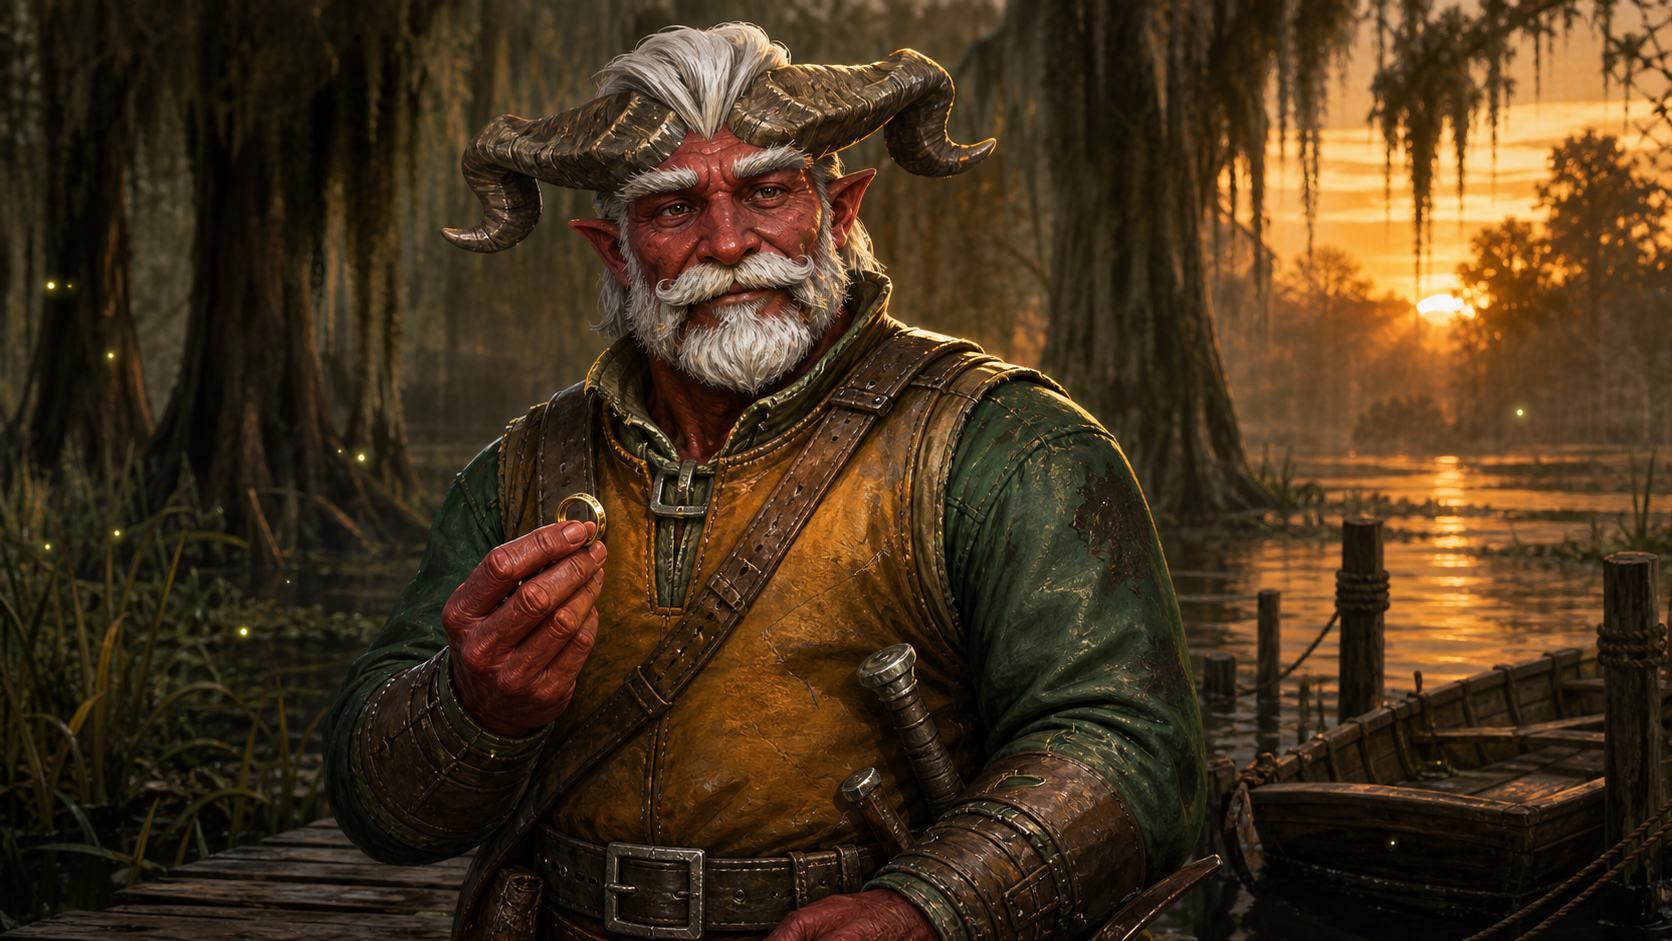
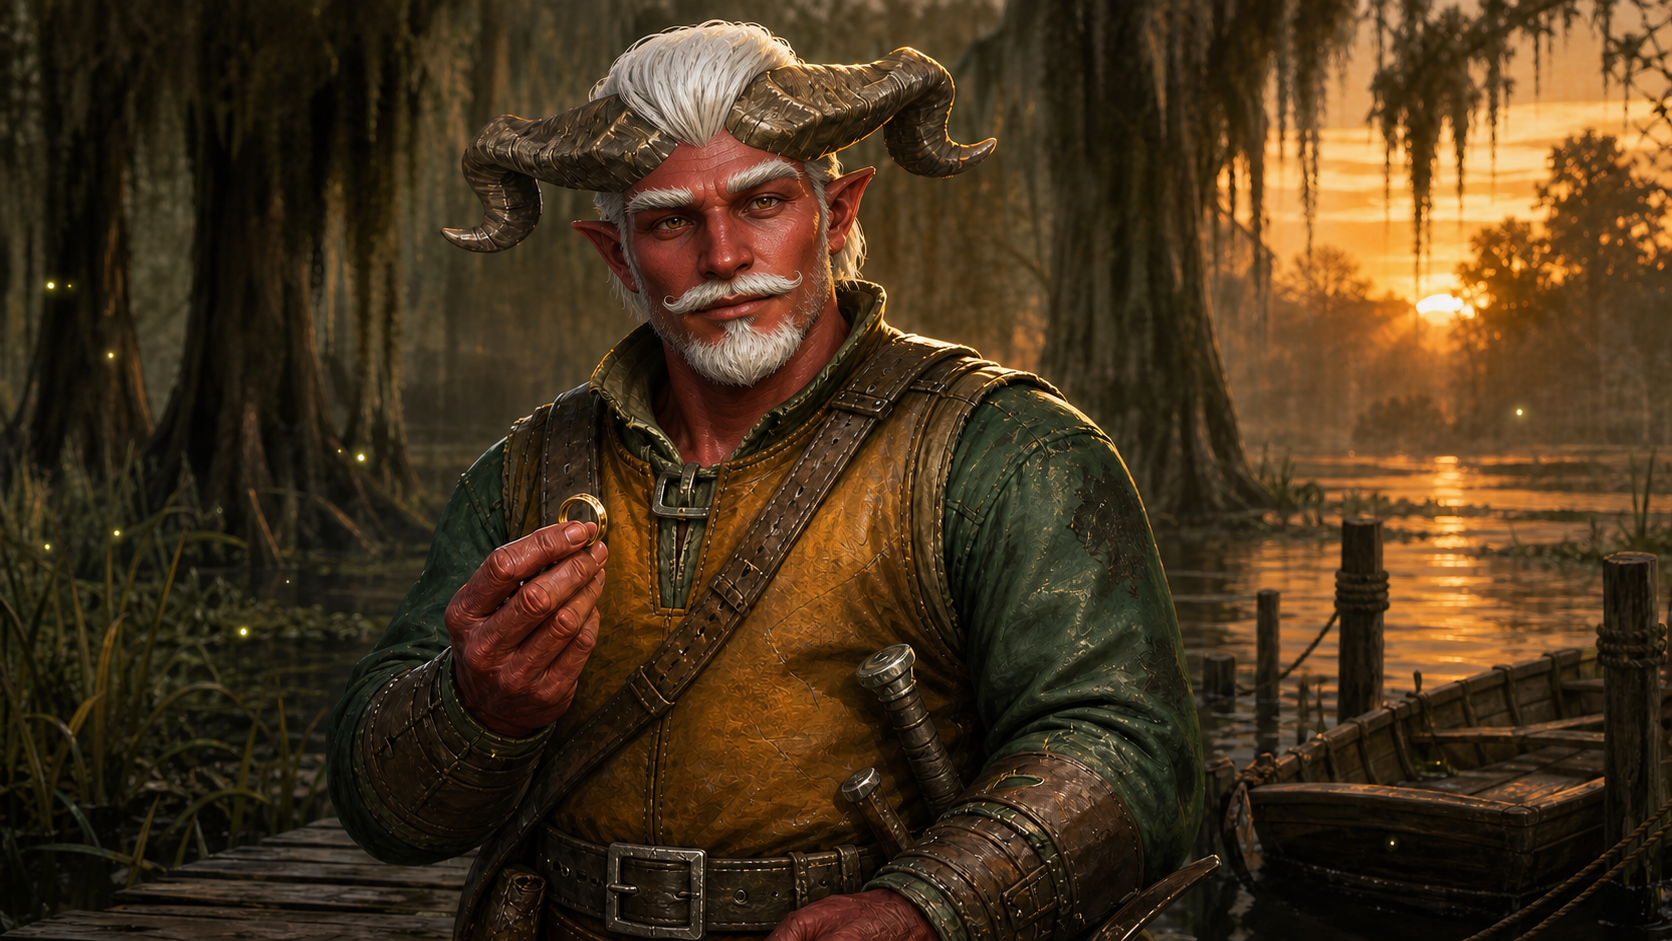
Fix campaign labels and update Hap portrait

diff --git a/apps/web/components/blocks/CharacterIntroduction.tsx b/apps/web/components/blocks/CharacterIntroduction.tsx
@@ -11,6 +11,7 @@ interface CharacterIntroductionProps {
   video?: string;
   audio: string;
   transcript: string;
+  campaignName?: string;
 }
 
 export function CharacterIntroduction({
@@ -20,6 +21,7 @@ export function CharacterIntroduction({
   video,
   audio,
   transcript,
+  campaignName,
 }: CharacterIntroductionProps) {
   const [open, setOpen] = useState(false);
   const audioRef = useRef<HTMLAudioElement>(null);
@@ -101,7 +103,7 @@ export function CharacterIntroduction({
               />
               <div className="absolute inset-x-0 bottom-0 bg-gradient-to-t from-black via-black/75 to-transparent px-5 pb-5 pt-20 sm:px-8 sm:pb-7">
                 <p className="font-cinzel text-xs uppercase tracking-widest" style={{ color: "var(--color-accent-gold)" }}>
-                  Souls of Destiny
+                  {campaignName ?? "Campaign"}
                 </p>
                 <h2 id="character-introduction-title" className="mt-1 font-cinzel text-2xl sm:text-4xl" style={{ color: "var(--color-text-primary)" }}>
                   {name}
@@ -116,7 +118,7 @@ export function CharacterIntroduction({
           {video && (
             <div>
               <p className="font-cinzel text-xs uppercase tracking-widest" style={{ color: "var(--color-accent-gold)" }}>
-                Souls of Destiny
+                {campaignName ?? "Campaign"}
               </p>
               <h2 id="character-introduction-title" className="mt-1 font-cinzel text-2xl sm:text-3xl" style={{ color: "var(--color-text-primary)" }}>
                 {name}

diff --git a/apps/web/__tests__/contentIntegrity.test.ts b/apps/web/__tests__/contentIntegrity.test.ts
@@ -446,6 +446,7 @@ describe("Editable campaign detail pages", () => {
     expect(escanor?.props.introductionAudio).toBe("/media/images/characters/escanor/introduction.mp3");
     expect(escanor?.props.introductionText).toContain("something resembling decency");
     expect(souls.every((item) => item.props.introductionAudio)).toBe(true);
+    expect(souls.every((item) => item.props.campaignName === "Souls of Destiny")).toBe(true);
 
     const heroesCampaign = campaigns.find((entry) => entry.id === "heroes-of-emberstran")!;
     const heroes = nestedPeople(
@@ -480,6 +481,7 @@ describe("Editable campaign detail pages", () => {
     expect(og?.props.img).toBe("/media/images/characters/ogmund-crag/portrait.png");
     expect(og?.props.introductionAudio).toBe("/media/images/characters/ogmund-crag/introduction.mp3");
     expect(og?.props.introductionText).toContain("what you refuse to let fall");
+    expect(heroes.every((item) => item.props.campaignName === "Heroes of Emberstran")).toBe(true);
   });
 
   it("stores each campaign detail page as individually editable assets", () => {

diff --git a/apps/web/components/blocks/BlockRenderer.tsx b/apps/web/components/blocks/BlockRenderer.tsx
@@ -2233,6 +2233,7 @@ function CardLayoutItemRenderer({ item }: { item: CardLayoutItem }) {
       const introductionVideo = item.props.introductionVideo as string | undefined;
       const introductionAudio = item.props.introductionAudio as string | undefined;
       const introductionText = item.props.introductionText as string | undefined;
+      const campaignName = item.props.campaignName as string | undefined;
       const href = item.props.href as string | undefined;
       const links = [
         ...parseLinks(item.props.links),
@@ -2256,6 +2257,7 @@ function CardLayoutItemRenderer({ item }: { item: CardLayoutItem }) {
                 video={introductionVideo}
                 audio={introductionAudio!}
                 transcript={introductionText!}
+                campaignName={campaignName}
               />
             ) : (
               <>

diff --git a/apps/web/lib/campaignDetailLayouts.ts b/apps/web/lib/campaignDetailLayouts.ts
@@ -193,6 +193,7 @@ export function enrichCampaignRosterCard(items: PageItem[], campaign: PortalCamp
           ...record.props,
           role,
           ...(introduction ? {
+            campaignName: campaign.name,
             img: introduction.image,
             introductionVideo: introduction.video,
             introductionAudio: introduction.audio,
